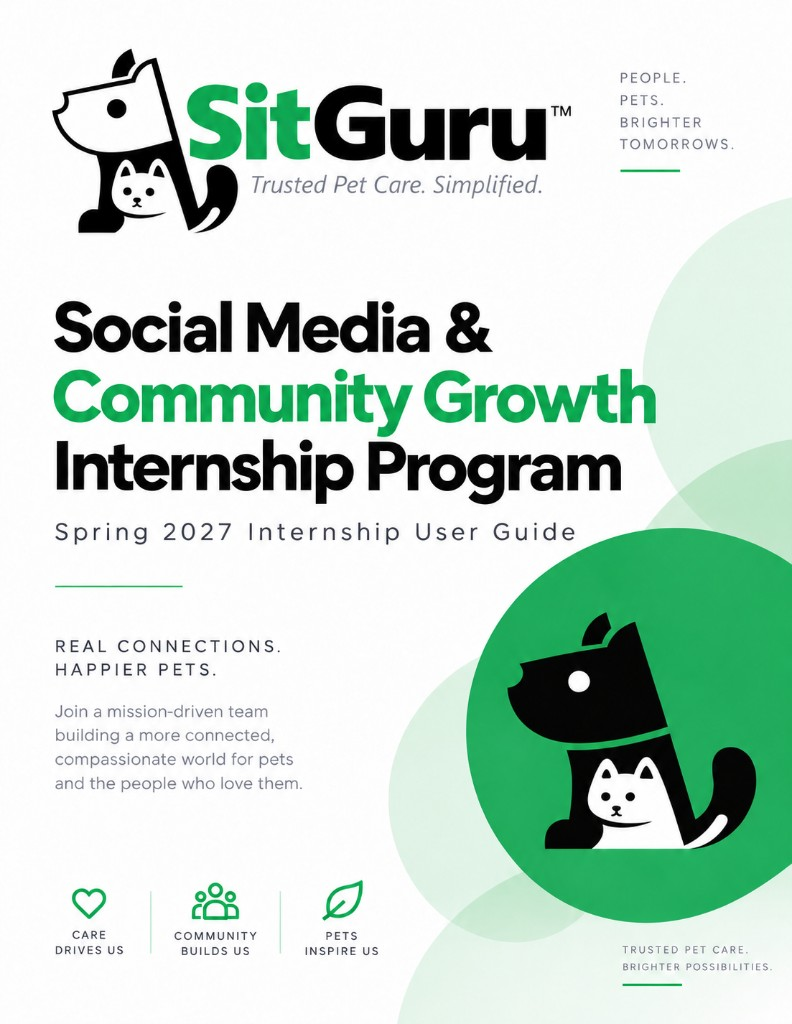
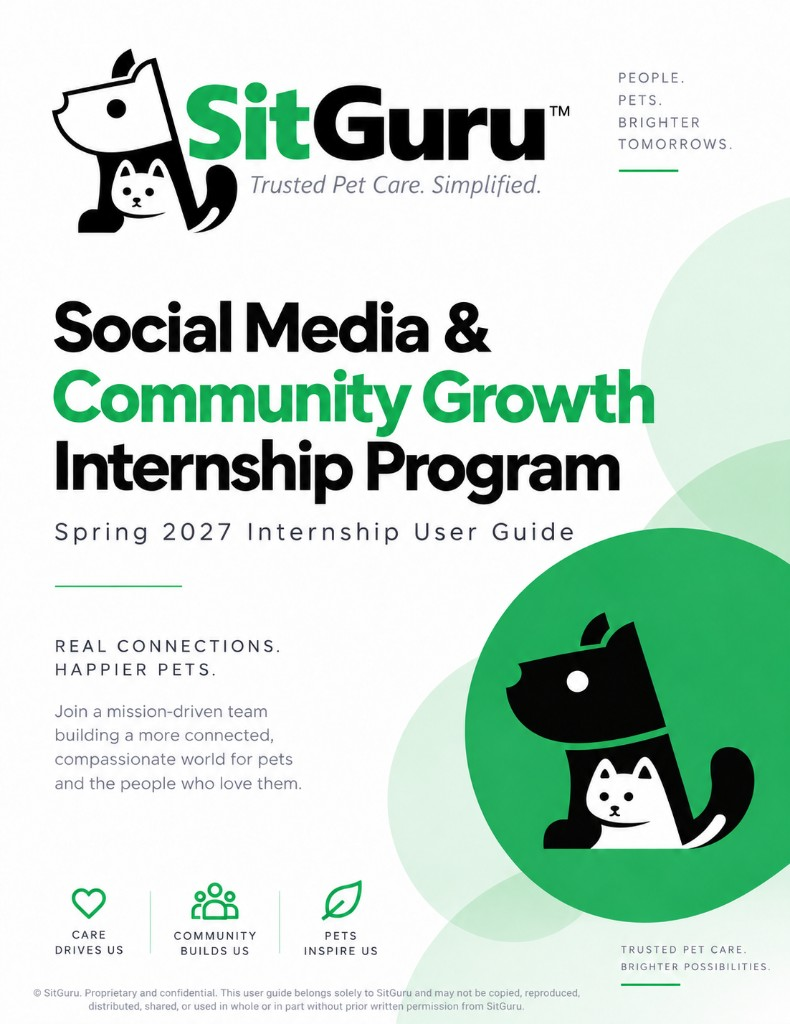
Add the SitGuru confidentiality footer to every student user guide page and replace the cover artwork.

diff --git a/lib/internship/intern-guide-document.ts b/lib/internship/intern-guide-document.ts
@@ -2,7 +2,12 @@ import { readFile } from "node:fs/promises";
 import path from "node:path";
 import { internHelpPath } from "@/lib/internship/intern-growth";
 import { internGlossarySectionHtml } from "@/lib/internship/intern-glossary";
-import { internHelpMediaAllowed } from "@/lib/internship/intern-help";
+import {
+  INTERN_GUIDE_CONFIDENTIALITY,
+  internHelpMediaAllowed,
+} from "@/lib/internship/intern-help";
+
+export { INTERN_GUIDE_CONFIDENTIALITY };
 
 export const INTERN_GUIDE_FILE = "docs/intern-guide/student-user-guide.html";
 export const INTERN_GUIDE_DOWNLOAD_NAME = "SitGuru-Intern-Portal-Student-User-Guide-Spring-2027";
@@ -166,9 +171,9 @@ export function internGuideBlocks(bodyHtml: string): GuideBlock[] {
       continue;
     }
     const className = attr(match[2] || "", "class");
-    if (className.includes("print-hint")) continue;
+    if (className.includes("print-hint") || className.includes("guide-confidentiality")) continue;
     const text = stripTags(match[3] || "");
-    if (!text) continue;
+    if (!text || text === INTERN_GUIDE_CONFIDENTIALITY) continue;
     if (tag === "figcaption") blocks.push({ type: "caption", text });
     else if (tag === "h1" || tag === "h2" || tag === "h3" || tag === "p" || tag === "li") {
       blocks.push({ type: tag, text });
@@ -241,11 +246,33 @@ export async function internGuideWordBuffer() {
     bodyXml.push(drawingXml(relId, block.alt || fileName, size.width, size.height, imageCount));
   }
 
+  const footerXml = `<?xml version="1.0" encoding="UTF-8" standalone="yes"?>
+<w:ftr xmlns:w="http://schemas.openxmlformats.org/wordprocessingml/2006/main">
+  <w:p>
+    <w:pPr>
+      <w:jc w:val="center"/>
+      <w:spacing w:before="40" w:after="0"/>
+    </w:pPr>
+    <w:r>
+      <w:rPr>
+        <w:sz w:val="16"/>
+        <w:szCs w:val="16"/>
+        <w:color w:val="64748B"/>
+      </w:rPr>
+      <w:t xml:space="preserve">${xmlEscape(INTERN_GUIDE_CONFIDENTIALITY)}</w:t>
+    </w:r>
+  </w:p>
+</w:ftr>`;
+
   const documentXml = `<?xml version="1.0" encoding="UTF-8" standalone="yes"?>
 <w:document xmlns:w="http://schemas.openxmlformats.org/wordprocessingml/2006/main" xmlns:r="http://schemas.openxmlformats.org/officeDocument/2006/relationships" xmlns:wp="http://schemas.openxmlformats.org/drawingml/2006/wordprocessingDrawing" xmlns:a="http://schemas.openxmlformats.org/drawingml/2006/main">
   <w:body>
     ${bodyXml.join("")}
-    <w:sectPr><w:pgSz w:w="12240" w:h="15840"/><w:pgMar w:top="720" w:right="720" w:bottom="720" w:left="720"/></w:sectPr>
+    <w:sectPr>
+      <w:footerReference w:type="default" r:id="rIdFooter"/>
+      <w:pgSz w:w="12240" w:h="15840"/>
+      <w:pgMar w:top="720" w:right="720" w:bottom="1080" w:left="720" w:header="360" w:footer="720"/>
+    </w:sectPr>
   </w:body>
 </w:document>`;
 
@@ -258,6 +285,7 @@ export async function internGuideWordBuffer() {
   <Default Extension="jpg" ContentType="image/jpeg"/>
   <Override PartName="/word/document.xml" ContentType="application/vnd.openxmlformats-officedocument.wordprocessingml.document.main+xml"/>
   <Override PartName="/word/styles.xml" ContentType="application/vnd.openxmlformats-officedocument.wordprocessingml.styles+xml"/>
+  <Override PartName="/word/footer1.xml" ContentType="application/vnd.openxmlformats-officedocument.wordprocessingml.footer+xml"/>
 </Types>`;
 
   const rootRels = `<?xml version="1.0" encoding="UTF-8" standalone="yes"?>
@@ -268,6 +296,7 @@ export async function internGuideWordBuffer() {
   const docRels = `<?xml version="1.0" encoding="UTF-8" standalone="yes"?>
 <Relationships xmlns="http://schemas.openxmlformats.org/package/2006/relationships">
   <Relationship Id="rIdStyles" Type="http://schemas.openxmlformats.org/officeDocument/2006/relationships/styles" Target="styles.xml"/>
+  <Relationship Id="rIdFooter" Type="http://schemas.openxmlformats.org/officeDocument/2006/relationships/footer" Target="footer1.xml"/>
   ${rels.join("\n  ")}
 </Relationships>`;
 
@@ -285,6 +314,7 @@ export async function internGuideWordBuffer() {
     { name: "word/document.xml", data: Buffer.from(documentXml, "utf8") },
     { name: "word/_rels/document.xml.rels", data: Buffer.from(docRels, "utf8") },
     { name: "word/styles.xml", data: Buffer.from(stylesXml, "utf8") },
+    { name: "word/footer1.xml", data: Buffer.from(footerXml, "utf8") },
     ...mediaFiles,
   ]);
 }

diff --git a/docs/intern-guide/student-user-guide.html b/docs/intern-guide/student-user-guide.html
@@ -25,7 +25,17 @@
     }
     img { max-width: 100%; height: auto; display: block; }
     a { color: var(--green); }
-    .wrap { max-width: 880px; margin: 0 auto; padding: 24px 18px 72px; }
+    .wrap { max-width: 880px; margin: 0 auto; padding: 24px 18px 88px; }
+    @page {
+      size: letter;
+      margin: 0.55in 0.5in 0.95in 0.5in;
+      @bottom-center {
+        content: "© SitGuru. Proprietary and confidential. This user guide belongs solely to SitGuru and may not be copied, reproduced, distributed, shared, or used in whole or in part without prior written permission from SitGuru.";
+        font-family: "Segoe UI", system-ui, sans-serif;
+        font-size: 7.5pt;
+        color: #64748b;
+      }
+    }
     .cover {
       background: #fff;
       border-radius: 28px;
@@ -131,12 +141,22 @@
     @media (min-width: 760px) {
       .two { grid-template-columns: 1fr 1fr; }
     }
-    footer {
+    footer, .guide-confidentiality {
       text-align: center;
       color: #64748b;
-      font-size: 13px;
+      font-size: 11px;
       font-weight: 600;
-      padding: 12px;
+      line-height: 1.4;
+      padding: 10px 16px 12px;
+    }
+    footer.guide-confidentiality {
+      position: fixed;
+      left: 0;
+      right: 0;
+      bottom: 0;
+      z-index: 20;
+      background: #fff;
+      border-top: 1px solid #e2e8f0;
     }
     .print-hint { font-size: 13px; font-weight: 700; color: #a7f3d0; }
     @media print {
@@ -146,6 +166,13 @@
       .print-hint { display: none; }
       a { color: var(--green); text-decoration: none; }
       .print-toolbar { display: none !important; }
+      footer.guide-confidentiality {
+        position: static;
+        border-top: 0;
+        background: transparent;
+        padding: 8px 0 0;
+        font-size: 10px;
+      }
     }
   </style>
 </head>
@@ -509,9 +536,8 @@
       <p>This guide shows the student portal as it works for Spring 2027. It is not the syllabus, not a contract, and not legal advice. Follow the intern agreement you signed in the portal.</p>
     </section>
 
-    <footer>
-      SitGuru™ · Graff Enterprises LLC d/b/a SitGuru · Spring 2027 Intern Portal Student User Guide<br />
-      Trusted Pet Care. Simplified.
+    <footer class="guide-confidentiality">
+      © SitGuru. Proprietary and confidential. This user guide belongs solely to SitGuru and may not be copied, reproduced, distributed, shared, or used in whole or in part without prior written permission from SitGuru.
     </footer>
   </div>
 </body>

diff --git a/components/internship/InternGuideDownloads.tsx b/components/internship/InternGuideDownloads.tsx
@@ -4,6 +4,7 @@ import Link from "next/link";
 import { useEffect } from "react";
 import { Download, Printer } from "lucide-react";
 import {
+  INTERN_GUIDE_CONFIDENTIALITY,
   INTERN_GUIDE_PRINT_PATH,
   INTERN_GUIDE_WORD_HREF,
 } from "@/lib/internship/intern-help";
@@ -41,32 +42,37 @@ export default function InternGuideDownloads({
   }, [autoPrint]);
 
   return (
-    <div className="flex flex-wrap gap-2 print:hidden">
-      {printPage ? (
-        <button
-          type="button"
-          onClick={() => window.print()}
-          className={`${internPrimaryBtnClass} min-h-11 px-4 text-xs`}
+    <div className="flex max-w-xl flex-col gap-2 print:hidden">
+      <div className="flex flex-wrap gap-2">
+        {printPage ? (
+          <button
+            type="button"
+            onClick={() => window.print()}
+            className={`${internPrimaryBtnClass} min-h-11 px-4 text-xs`}
+          >
+            <Printer size={16} />
+            Print PDF
+          </button>
+        ) : (
+          <Link
+            href={`${INTERN_GUIDE_PRINT_PATH}?autoprint=1`}
+            className={`${internPrimaryBtnClass} min-h-11 px-4 text-xs`}
+          >
+            <Printer size={16} />
+            Print PDF
+          </Link>
+        )}
+        <a
+          href={INTERN_GUIDE_WORD_HREF}
+          className={`${internGhostBtnClass} min-h-11 px-4 text-xs`}
         >
-          <Printer size={16} />
-          Print PDF
-        </button>
-      ) : (
-        <Link
-          href={`${INTERN_GUIDE_PRINT_PATH}?autoprint=1`}
-          className={`${internPrimaryBtnClass} min-h-11 px-4 text-xs`}
-        >
-          <Printer size={16} />
-          Print PDF
-        </Link>
-      )}
-      <a
-        href={INTERN_GUIDE_WORD_HREF}
-        className={`${internGhostBtnClass} min-h-11 px-4 text-xs`}
-      >
-        <Download size={16} />
-        Download Word
-      </a>
+          <Download size={16} />
+          Download Word
+        </a>
+      </div>
+      <p className="text-[11px] font-semibold leading-4 text-slate-500">
+        {INTERN_GUIDE_CONFIDENTIALITY}
+      </p>
     </div>
   );
 }

diff --git a/lib/internship/intern-guide-document.test.ts b/lib/internship/intern-guide-document.test.ts
@@ -7,7 +7,11 @@ import {
   internGuideSourceHtml,
   internGuideWordBuffer,
 } from "./intern-guide-document";
-import { INTERN_GUIDE_PRINT_PATH, INTERN_GUIDE_WORD_HREF } from "./intern-help";
+import {
+  INTERN_GUIDE_CONFIDENTIALITY,
+  INTERN_GUIDE_PRINT_PATH,
+  INTERN_GUIDE_WORD_HREF,
+} from "./intern-help";
 import { internPortalDestination } from "./intern-growth";
 import { INTERNSHIP_ONBOARDING_PATH } from "./onboarding";
 
@@ -19,6 +23,27 @@ describe("intern student user guide downloads", () => {
     assert.doesNotMatch(html, /syllabus cover/i);
     assert.match(html, /\/intern\/help\/media\/screenshots\/26-onboarding\.png/);
     assert.doesNotMatch(html, /\bsrc="screenshots\//);
+    assert.match(html, /@bottom-center/);
+    assert.match(html, /Proprietary and confidential/);
+    assert.ok(html.includes(INTERN_GUIDE_CONFIDENTIALITY));
+  });
+
+  it("puts the confidentiality disclaimer in HTML source and the Word page footer", async () => {
+    const html = await internGuideSourceHtml();
+    assert.ok(html.includes(INTERN_GUIDE_CONFIDENTIALITY));
+    assert.match(html, /@bottom-center/);
+    assert.match(html, /class="guide-confidentiality"/);
+    const docx = await internGuideWordBuffer();
+    const wordXml = docx.toString("utf8");
+    assert.match(wordXml, /w:footerReference/);
+    assert.match(wordXml, /word\/footer1\.xml/);
+    assert.match(wordXml, /Proprietary and confidential/);
+    assert.ok(wordXml.includes("belongs solely to SitGuru"));
+    const { body } = internGuideParts(html);
+    const text = internGuideBlocks(body)
+      .map((block) => ("text" in block ? block.text : ""))
+      .join("\n");
+    assert.doesNotMatch(text, /Proprietary and confidential/);
   });
 
   it("parses headings, steps, and screenshots from the illustrated guide", async () => {

diff --git a/lib/internship/intern-help.test.ts b/lib/internship/intern-help.test.ts
@@ -8,8 +8,10 @@ import {
   internHelpMediaAllowed,
   internHelpMediaSrc,
   searchInternHelpArticles,
+  INTERN_GUIDE_CONFIDENTIALITY,
   INTERN_HELP_ARTICLES,
 } from "./intern-help";
+import { internGuideSourceHtml, internGuideWordBuffer } from "./intern-guide-document";
 import { INTERN_WATCH_VIDEOS } from "./intern-glossary";
 
 describe("intern help catalog", () => {
@@ -90,6 +92,20 @@ describe("intern help catalog", () => {
     assert.equal(internHelpMediaAllowed("assets/brand/sitguru-logo-horizontal.jpg"), true);
     assert.equal(internHelpMediaAllowed("screenshots/17-your-page.png"), false);
     assert.equal(internHelpMediaAllowed("../.env"), false);
+  });
+
+  it("includes the confidentiality disclaimer in student guide HTML and Word output", async () => {
+    assert.match(INTERN_GUIDE_CONFIDENTIALITY, /Proprietary and confidential/);
+    assert.match(INTERN_GUIDE_CONFIDENTIALITY, /belongs solely to SitGuru/);
+    const html = await internGuideSourceHtml();
+    assert.ok(html.includes(INTERN_GUIDE_CONFIDENTIALITY));
+    assert.match(html, /@bottom-center/);
+    const studentGuide = internHelpArticle("student-guide");
+    assert.ok(studentGuide);
+    const docx = await internGuideWordBuffer();
+    const wordXml = docx.toString("utf8");
+    assert.match(wordXml, /w:footerReference/);
+    assert.match(wordXml, /Proprietary and confidential/);
   });
 
   it("lets unsigned interns open Help during onboarding", () => {

diff --git a/app/intern/help/print/page.tsx b/app/intern/help/print/page.tsx
@@ -7,7 +7,10 @@ import {
   internGuidePortalHtml,
   internGuideSourceHtml,
 } from "@/lib/internship/intern-guide-document";
-import { INTERNSHIP_HELP_PATH } from "@/lib/internship/intern-help";
+import {
+  INTERN_GUIDE_CONFIDENTIALITY,
+  INTERNSHIP_HELP_PATH,
+} from "@/lib/internship/intern-help";
 
 export const dynamic = "force-dynamic";
 
@@ -31,7 +34,16 @@ export default async function InternGuidePrintPage({
     <main className="intern-guide-print bg-white">
       <style>{`
         ${style}
-        @page { size: letter; margin: 0.5in; }
+        @page {
+          size: letter;
+          margin: 0.55in 0.5in 0.95in 0.5in;
+          @bottom-center {
+            content: ${JSON.stringify(INTERN_GUIDE_CONFIDENTIALITY)};
+            font-family: "Segoe UI", system-ui, sans-serif;
+            font-size: 7.5pt;
+            color: #64748b;
+          }
+        }
         @media print {
           .print-toolbar, #crisp-chatbox { display: none !important; }
           body, .intern-guide-print { background: #fff !important; }

diff --git a/components/internship/InternHelpChrome.tsx b/components/internship/InternHelpChrome.tsx
@@ -3,6 +3,7 @@ import type { ReactNode } from "react";
 import InternHelpSearchBar from "@/components/internship/InternHelpSearchBar";
 import { internGhostBtnClass } from "@/lib/internship/intern-ui";
 import {
+  INTERN_GUIDE_CONFIDENTIALITY,
   INTERN_HELP_INBOX,
   INTERNSHIP_HELP_PATH,
   internHelpMediaSrc,
@@ -60,6 +61,11 @@ export default function InternHelpChrome({
         </a>
         .
       </div>
+      {article?.slug === "student-guide" ? (
+        <p className="mt-6 text-[11px] font-semibold leading-4 text-slate-500">
+          {INTERN_GUIDE_CONFIDENTIALITY}
+        </p>
+      ) : null}
     </article>
   );
 }

diff --git a/lib/internship/intern-help.ts b/lib/internship/intern-help.ts
@@ -15,6 +15,8 @@ export { INTERNSHIP_HELP_PATH };
 
 export const INTERN_GUIDE_PRINT_PATH = internHelpPath("print");
 export const INTERN_GUIDE_WORD_HREF = `${INTERNSHIP_HELP_PATH}/export?format=word`;
+export const INTERN_GUIDE_CONFIDENTIALITY =
+  "© SitGuru. Proprietary and confidential. This user guide belongs solely to SitGuru and may not be copied, reproduced, distributed, shared, or used in whole or in part without prior written permission from SitGuru.";
 
 export const INTERN_HELP_INBOX = "intern@sitguru.com";
 
